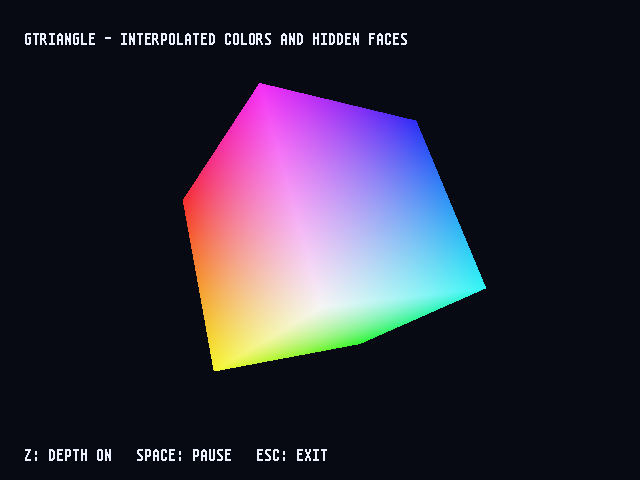
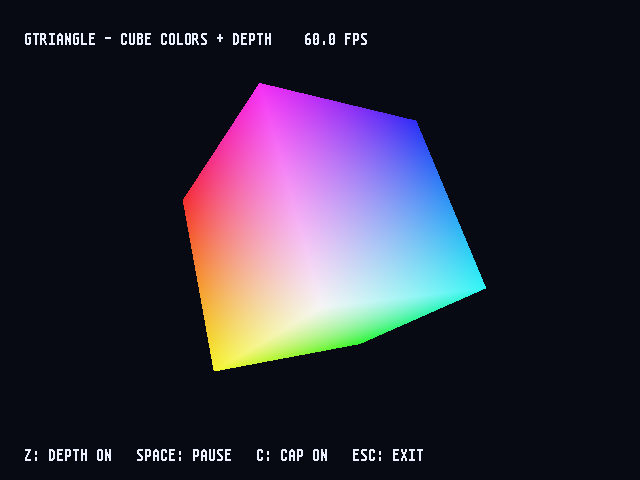
Refresh graphics showcase, benchmark controls and package contents

Changed region(s): [[0.2812, 0.0625, 0.6562, 0.0938], [0.4062, 0.9375, 0.6562, 0.9688], [0.1875, 0.0625, 0.25, 0.0938]]

diff --git a/tools/generate_showcase.py b/tools/generate_showcase.py
@@ -104,8 +104,13 @@ CAPTURES = (
     ),
     Capture(
         "g-cube-gouraud.bas",
-        ('545 BSAVE "showcase/g-cube-gouraud.png" : END',),
+        (
+            "543 SHOWFRAME=SHOWFRAME+1",
+            "544 IF SHOWFRAME<80 THEN GOTO 550",
+            '545 BSAVE "showcase/g-cube-gouraud.png" : SCREEN CLOSE : END',
+        ),
         {310: "REM Capture the initial angle"},
+        windowed=True,
     ),
     Capture(
         "g-animation.bas",
@@ -139,13 +144,23 @@ CAPTURES = (
     ),
     Capture(
         "g-cube-light.bas",
-        ('665 BSAVE "showcase/g-cube-light.png" : END',),
+        (
+            "663 SHOWFRAME=SHOWFRAME+1",
+            "664 IF SHOWFRAME<80 THEN GOTO 670",
+            '665 BSAVE "showcase/g-cube-light.png" : SCREEN CLOSE : END',
+        ),
         {230: "REM Fixed light for capture", 310: "REM Capture the initial angle"},
+        windowed=True,
     ),
     Capture(
         "g-knot-light.bas",
-        ('745 BSAVE "showcase/g-knot-light.png" : END',),
+        (
+            "743 SHOWFRAME=SHOWFRAME+1",
+            "744 IF SHOWFRAME<80 THEN GOTO 750",
+            '745 BSAVE "showcase/g-knot-light.png" : SCREEN CLOSE : END',
+        ),
         {370: "REM Fixed light for capture", 430: "REM Capture the initial angle"},
+        windowed=True,
     ),
     Capture(
         "g-shadow.bas",

diff --git a/tools/render_showcase_docs.py b/tools/render_showcase_docs.py
@@ -201,7 +201,7 @@ def render_markdown(samples: list[Sample]) -> str:
             "- **Cast shadows from a movable light:** `g-cube-light.bas` → `g-shadow.bas`.",
             "- **Optimize a shadow demo with shared calculations and adaptive detail:** `g-shadow.bas` → `g-shadow-adaptive.bas`.",
             "- **Animate the camera, then move the light:** `g-animation.bas` → `g-animation2.bas`.",
-            "- **Simulate cloth offline, then play its PNG frames:** `g-cloth-render.bas` → `g-animation3.bas` ([rendering guide](g-cloth-render.md)).",
+            "- **Simulate cloth offline, then play its PNG frames:** `g-cloth-render.bas` → `g-animation3.bas`.",
             "- **Build a texture mapper, then use the native primitive:** `g-zoomer.bas` →",
             "  `g-zoomer-tquad.bas`.",
             "- **From flat to interpolated light:** `g-lambert.bas` → `g-gouraud.bas`.",

diff --git a/packaging/package_windows_release.py b/packaging/package_windows_release.py
@@ -34,10 +34,19 @@ def run(command: list[str], cwd: Path) -> None:
 
 
 def copy_tree(src: Path, dst: Path) -> None:
-    ignore = shutil.ignore_patterns(
+    ignore_patterns = shutil.ignore_patterns(
         "__pycache__", "*.pyc", ".pytest_cache",
+        "catalog.tsv",
         "f-scores.csv", "f-records.csv", "f-text.txt",
     )
+
+    def ignore(directory: str, names: list[str]) -> set[str]:
+        excluded = set(ignore_patterns(directory, names))
+        # Generation provenance is useful in source control, not for playback.
+        if Path(directory).resolve() == (ROOT / "samples/assets/cloth").resolve():
+            excluded.add("manifest.json")
+        return excluded
+
     shutil.copytree(src, dst, ignore=ignore)
 
 

diff --git a/samples/README.md b/samples/README.md
@@ -168,30 +168,30 @@ to inspect its BASIC source.
 </tr>
 <tr>
 <td width="50%" valign="top">
-  <a id="highlight-g-loan"></a>
-  <a href="g-loan.bas"><img src="showcase/g-loan.png" alt="Graphical Loan Calculator running in AVL BASIC" width="100%"></a><br>
-  <strong>18. Graphical Loan Calculator</strong><br>
-  Graphical loan calculator with optional amortization table.<br>
-  <sub><strong>Shows:</strong> GINPUT · DEF FN · formatted output</sub><br>
-  <code>RUN "/samples/g-loan.bas"</code>
+  <a id="highlight-g-knot-light"></a>
+  <a href="g-knot-light.bas"><img src="showcase/g-knot-light.png" alt="Procedural Knot Light running in AVL BASIC" width="100%"></a><br>
+  <strong>18. Procedural Knot Light</strong><br>
+  A nearby mouse-controlled diffuse light shades a smooth tubular knot; SPACE pauses rotation while the light remains active, and C toggles the 60 FPS cap, with measured FPS in the HUD.<br>
+  <sub><strong>Shows:</strong> parametric mesh · smooth normals · MOUSE · GTRIANGLE · depth buffer</sub><br>
+  <code>RUN "/samples/g-knot-light.bas"</code>
 </td>
 <td width="50%" valign="top">
-  <a id="highlight-g-tunnel-tquad"></a>
-  <a href="g-tunnel-tquad.bas"><img src="showcase/g-tunnel-tquad.png" alt="Textured Tunnel running in AVL BASIC" width="100%"></a><br>
-  <strong>19. Textured Tunnel</strong><br>
-  A seamless textured tunnel turns a ring mesh into a fluid animated ride.<br>
-  <sub><strong>Shows:</strong> TQUAD · mesh generation · texture animation</sub><br>
-  <code>RUN "/samples/g-tunnel-tquad.bas"</code>
+  <a id="highlight-g-shadow-adaptive"></a>
+  <a href="g-shadow-adaptive.bas"><img src="showcase/g-shadow-adaptive.png" alt="Adaptive Arch Shadows running in AVL BASIC" width="100%"></a><br>
+  <strong>19. Adaptive Arch Shadows</strong><br>
+  An advanced version of the same scene shares calculations along grid rows and columns, skips unreachable shadow queries, and keeps fine floor cells where shadow detail is needed.<br>
+  <sub><strong>Shows:</strong> GTRIANGLE · cast shadows · shared calculations · conservative bounds · adaptive floor mesh</sub><br>
+  <code>RUN "/samples/g-shadow-adaptive.bas"</code>
 </td>
 </tr>
 <tr>
 <td width="50%" valign="top">
-  <a id="highlight-pimachin-modern"></a>
-  <a href="pimachin-modern.bas"><img src="showcase/pimachin-modern.png" alt="Modern Machin Pi running in AVL BASIC" width="100%"></a><br>
-  <strong>20. Modern Machin Pi</strong><br>
-  Compute 1,000 digits of π with block arithmetic and structured, modern BASIC.<br>
-  <sub><strong>Shows:</strong> DEF SUB · LOCAL · arbitrary precision</sub><br>
-  <code>RUN "/samples/pimachin-modern.bas"</code>
+  <a id="highlight-g-animation3"></a>
+  <a href="g-animation3.bas"><img src="showcase/g-animation3.png" alt="Offline Cloth Animation running in AVL BASIC" width="100%"></a><br>
+  <strong>20. Offline Cloth Animation</strong><br>
+  Play 120 precalculated cloth frames at 30 FPS; SPACE pauses, R replays, and C toggles the cap while the playback clock preserves motion speed.<br>
+  <sub><strong>Shows:</strong> BLOAD · SCREEN · playback clock · FRAME</sub><br>
+  <code>RUN "/samples/g-animation3.bas"</code>
 </td>
 <td width="50%"></td>
 </tr>
@@ -214,7 +214,7 @@ python tools/generate_showcase.py
 - **Cast shadows from a movable light:** `g-cube-light.bas` → `g-shadow.bas`.
 - **Optimize a shadow demo with shared calculations and adaptive detail:** `g-shadow.bas` → `g-shadow-adaptive.bas`.
 - **Animate the camera, then move the light:** `g-animation.bas` → `g-animation2.bas`.
-- **Simulate cloth offline, then play its PNG frames:** `g-cloth-render.bas` → `g-animation3.bas` ([rendering guide](g-cloth-render.md)).
+- **Simulate cloth offline, then play its PNG frames:** `g-cloth-render.bas` → `g-animation3.bas`.
 - **Build a texture mapper, then use the native primitive:** `g-zoomer.bas` →
   `g-zoomer-tquad.bas`.
 - **From flat to interpolated light:** `g-lambert.bas` → `g-gouraud.bas`.
@@ -250,7 +250,7 @@ demo.
 | <a id="sample-g-smoke"></a>[`g-smoke.bas`](g-smoke.bas) [★](#highlight-g-smoke) | Interactive two-dimensional fluid simulation with pressure projection, vorticity and smoothly shaded dye. | fluid simulation, MAT, bilinear interpolation, FRAME |
 | <a id="sample-g-starfield"></a>[`g-starfield.bas`](g-starfield.bas) | Two thousand depth-recycled stars flow through 3D. | 3D projection, depth recycling, FRAME |
 | <a id="sample-g-sunflower"></a>[`g-sunflower.bas`](g-sunflower.bas) | Animated phyllotaxis spiral with hue cycling. | phyllotaxis, custom RGB, FRAME |
-| <a id="sample-g-tunnel-tquad"></a>[`g-tunnel-tquad.bas`](g-tunnel-tquad.bas) [★](#highlight-g-tunnel-tquad) | A seamless textured tunnel turns a ring mesh into a fluid animated ride. | TQUAD, mesh generation, texture animation |
+| <a id="sample-g-tunnel-tquad"></a>[`g-tunnel-tquad.bas`](g-tunnel-tquad.bas) | A seamless textured tunnel turns a ring mesh into a fluid animated ride. | TQUAD, mesh generation, texture animation |
 | <a id="sample-g-tunnel"></a>[`g-tunnel.bas`](g-tunnel.bas) | BASIC texture lookup creates a block-rendered tunnel. | BLOAD, TEST, texture mapping |
 | <a id="sample-g-zoomer-tquad"></a>[`g-zoomer-tquad.bas`](g-zoomer-tquad.bas) | One textured quad produces rotating zoom feedback. | TQUAD, rotation, zoom |
 | <a id="sample-g-zoomer"></a>[`g-zoomer.bas`](g-zoomer.bas) [★](#highlight-g-zoomer) | Block-sampled texture mapping powers a retro zoomer. | BLOAD, TEST, block rendering |
@@ -263,7 +263,7 @@ demo.
 | <a id="sample-g-chess960"></a>[`g-chess960.bas`](g-chess960.bas) [★](#highlight-g-chess960) | Generate legal Chess960 back ranks, rendered with real pieces and one-key rerolls. | DEF SUB, constrained randomization, sprites |
 | <a id="sample-g-dungeon"></a>[`g-dungeon.bas`](g-dungeon.bas) [★](#highlight-g-dungeon) | Explore a textured first-person maze, find the gold key and escape through the locked gate, with original music and sound effects. | DDA raycasting, TRECTANGLE, TQUAD, depth testing, AUDIO, WAV |
 | <a id="sample-g-dungeon-cpc"></a>[`g-dungeon-cpc.bas`](g-dungeon-cpc.bas) | Play AVL Dungeon with the original melody and bass arranged for three CPC voices, percussion yielding to game effects, and a three-part victory fanfare; no WAV files required. | SOUND, ENV, ENT, DATA, ON SQ, channel rendezvous, DDA raycasting |
-| <a id="sample-g-loan"></a>[`g-loan.bas`](g-loan.bas) [★](#highlight-g-loan) | Graphical loan calculator with optional amortization table. | GINPUT, DEF FN, formatted output |
+| <a id="sample-g-loan"></a>[`g-loan.bas`](g-loan.bas) | Graphical loan calculator with optional amortization table. | GINPUT, DEF FN, formatted output |
 | <a id="sample-g-maze"></a>[`g-maze.bas`](g-maze.bas) [★](#highlight-g-maze) | A fresh maze appears with its solution stitched through it in a dashed path. | DFS/Prim, bit masks, path reconstruction |
 | <a id="sample-g-random"></a>[`g-random.bas`](g-random.bas) | Random walk runs until it reaches the border. | RND, DRAW, boundary detection |
 
@@ -273,13 +273,13 @@ demo.
 |---|---|---|
 | <a id="sample-g-animation"></a>[`g-animation.bas`](g-animation.bas) | A camera rotates around a mathematical surface with fixed lighting; SPACE pauses motion and C toggles the 60 FPS cap. | GTRIANGLE, procedural mesh, camera rotation, vertex lighting, FRAME |
 | <a id="sample-g-animation2"></a>[`g-animation2.bas`](g-animation2.bas) [★](#highlight-g-animation2) | A rotating light shades a mathematical surface while the camera stays fixed; SPACE pauses motion and C toggles the 60 FPS cap. | GTRIANGLE, procedural mesh, moving light, vertex lighting, FRAME |
-| <a id="sample-g-cloth-render"></a>[`g-cloth-render.bas`](g-cloth-render.bas) | Preview satin cloth over a sphere with progressive triangle rendering, optional PNG export, configurable ranges, and reusable physical checkpoints. [Rendering guide](g-cloth-render.md). | XPBD, fixed substeps, GTRIANGLE, filtered shadows, FRAME, BSAVE, checkpoints |
+| <a id="sample-g-cloth-render"></a>[`g-cloth-render.bas`](g-cloth-render.bas) | Preview satin cloth over a sphere with progressive triangle rendering, optional PNG export, configurable ranges, and reusable physical checkpoints. | XPBD, fixed substeps, GTRIANGLE, filtered shadows, FRAME, BSAVE, checkpoints |
 | <a id="sample-g-cube"></a>[`g-cube.bas`](g-cube.bas) | Filled rotating cube with hidden-face removal. | 3D projection, back-face culling, FTRIANGLE |
-| <a id="sample-g-cube-gouraud"></a>[`g-cube-gouraud.bas`](g-cube-gouraud.bas) | One rotating cube combines interpolated corner colors and hidden-face removal; toggle depth with Z. | GTRIANGLE, RGB interpolation, array depth buffer |
-| <a id="sample-g-cube-light"></a>[`g-cube-light.bas`](g-cube-light.bas) | A mouse-controlled diffuse light shades a rotating cube; pause rotation while the light keeps moving. | MOUSE, Lambert lighting, GTRIANGLE, depth buffer |
-| <a id="sample-g-knot-light"></a>[`g-knot-light.bas`](g-knot-light.bas) | A nearby mouse-controlled diffuse light shades a smooth tubular knot; move the light while rotation is paused. | parametric mesh, smooth normals, MOUSE, GTRIANGLE, depth buffer |
+| <a id="sample-g-cube-gouraud"></a>[`g-cube-gouraud.bas`](g-cube-gouraud.bas) | One rotating cube combines interpolated corner colors and hidden-face removal; Z toggles depth, SPACE pauses rotation, and C toggles the 60 FPS cap, with measured FPS in the HUD. | GTRIANGLE, RGB interpolation, array depth buffer |
+| <a id="sample-g-cube-light"></a>[`g-cube-light.bas`](g-cube-light.bas) | A mouse-controlled diffuse light shades a rotating cube; SPACE pauses rotation while the light remains active, and C toggles the 60 FPS cap, with measured FPS in the HUD. | MOUSE, Lambert lighting, GTRIANGLE, depth buffer |
+| <a id="sample-g-knot-light"></a>[`g-knot-light.bas`](g-knot-light.bas) [★](#highlight-g-knot-light) | A nearby mouse-controlled diffuse light shades a smooth tubular knot; SPACE pauses rotation while the light remains active, and C toggles the 60 FPS cap, with measured FPS in the HUD. | parametric mesh, smooth normals, MOUSE, GTRIANGLE, depth buffer |
 | <a id="sample-g-shadow"></a>[`g-shadow.bas`](g-shadow.bas) | An introductory cast-shadow example with a mouse-controlled point light, an arch, and a uniform 96 x 96 floor grid; S toggles shadows and C toggles the 60 FPS cap, with measured FPS in the HUD. | GTRIANGLE, cast shadows, uniform floor mesh, MOUSE, depth buffers, FRAME |
-| <a id="sample-g-shadow-adaptive"></a>[`g-shadow-adaptive.bas`](g-shadow-adaptive.bas) | An advanced version of the same scene shares calculations along grid rows and columns, skips unreachable shadow queries, and keeps fine floor cells where shadow detail is needed. | GTRIANGLE, cast shadows, shared calculations, conservative bounds, adaptive floor mesh |
+| <a id="sample-g-shadow-adaptive"></a>[`g-shadow-adaptive.bas`](g-shadow-adaptive.bas) [★](#highlight-g-shadow-adaptive) | An advanced version of the same scene shares calculations along grid rows and columns, skips unreachable shadow queries, and keeps fine floor cells where shadow detail is needed. | GTRIANGLE, cast shadows, shared calculations, conservative bounds, adaptive floor mesh |
 | <a id="sample-g-cube2"></a>[`g-cube2.bas`](g-cube2.bas) | Two depth-sorted cubes orbit in opposite phases. | 3D projection, depth sorting, FTRIANGLE |
 | <a id="sample-g-cube3"></a>[`g-cube3.bas`](g-cube3.bas) | Rotating cube fills outlined faces using flood fill. | 3D projection, DRAW, FILL |
 | <a id="sample-g-cube-tquad"></a>[`g-cube-tquad.bas`](g-cube-tquad.bas) | A spinning textured cube built from projection math and affine quads. | 3D projection, back-face culling, TQUAD |
@@ -374,7 +374,7 @@ demo.
 
 | Sample | What it demonstrates | Techniques |
 |---|---|---|
-| <a id="sample-g-animation3"></a>[`g-animation3.bas`](g-animation3.bas) | Play 120 precalculated cloth frames at 30 FPS; SPACE pauses, R replays, and C toggles the cap while the playback clock preserves motion speed. | BLOAD, SCREEN, playback clock, FRAME |
+| <a id="sample-g-animation3"></a>[`g-animation3.bas`](g-animation3.bas) [★](#highlight-g-animation3) | Play 120 precalculated cloth frames at 30 FPS; SPACE pauses, R replays, and C toggles the cap while the playback clock preserves motion speed. | BLOAD, SCREEN, playback clock, FRAME |
 | <a id="sample-g-balls"></a>[`g-balls.bas`](g-balls.bas) [★](#highlight-g-balls) | Fifty numbered sprites bounce and collide without full clears. | sprite collisions, dirty redraw, COLMODE |
 | <a id="sample-g-sprite"></a>[`g-sprite.bas`](g-sprite.bas) | Captures and redraws one sprite with transparency variants. | SPRITE$, SPRITE, transparency |
 | <a id="sample-g-sprite2"></a>[`g-sprite2.bas`](g-sprite2.bas) | Repeats sprite transparency inside a scaled viewport. | SPRITE$, ORIGIN, transparency |
@@ -429,7 +429,7 @@ program, then reads it back.
 | <a id="sample-palette"></a>[`palette.bas`](palette.bas) | Lists named colors and their packed RGB values. | RGB, HEX$, DATA |
 | <a id="sample-pimachin"></a>[`pimachin.bas`](pimachin.bas) | GOSUB-based Machin algorithm computes 1,000 pi digits. | arbitrary precision, GOSUB, Machin formula |
 | <a id="sample-pimachin-mat"></a>[`pimachin-mat.bas`](pimachin-mat.bas) | Compute 1,000 pi digits with vector addition and subtraction, retaining BASIC loops for carries and borrows. | MAT, vector arithmetic, arbitrary precision, Machin formula |
-| <a id="sample-pimachin-modern"></a>[`pimachin-modern.bas`](pimachin-modern.bas) [★](#highlight-pimachin-modern) | Compute 1,000 digits of π with block arithmetic and structured, modern BASIC. | DEF SUB, LOCAL, arbitrary precision |
+| <a id="sample-pimachin-modern"></a>[`pimachin-modern.bas`](pimachin-modern.bas) | Compute 1,000 digits of π with block arithmetic and structured, modern BASIC. | DEF SUB, LOCAL, arbitrary precision |
 | <a id="sample-powermul"></a>[`powermul.bas`](powermul.bas) | Computes arbitrary-precision integer powers by block multiplication. | DEF SUB, block multiplication, PRINT USING |
 
 ★ Featured in the 20-example gallery.

diff --git a/README.md b/README.md
@@ -7,8 +7,9 @@
 AVL BASIC is a native Rust implementation of a classic-style BASIC system with
 line-numbered programs, immediate mode, an integrated full-screen editor and
 debugger, structured control flow, matrix operations, sequential data files,
-sprites, mouse and keyboard input, a complete built-in graphics environment,
-CPC-style sound synthesis, and modern audio playback.
+sprites, mouse and keyboard input, a complete built-in graphics environment
+with Gouraud shading and depth testing, CPC-style sound synthesis, and modern
+audio playback.
 
 The project is built around the Rust runtime: a fast native executable for
 daily use, packaged distribution, and source builds.
@@ -72,7 +73,7 @@ not mockups or engine screenshots:
 <td width="33%" valign="top">
   <a href="samples/README.md#highlight-g-animation2"><img src="samples/showcase/g-animation2.png" alt="Mathematical surface shaded by a rotating light in real time" width="100%"></a><br>
   <strong>Real-Time Moving Light</strong><br>
-  A rotating light shades a procedural surface in real time with GTRIANGLE.
+  A rotating light shades a procedural surface in real time.
 </td>
 <td width="33%" valign="top">
   <a href="samples/README.md#highlight-g-fmandelbrot"><img src="samples/showcase/g-fmandelbrot.png" alt="Mandelbrot fractal" width="100%"></a><br>
@@ -87,9 +88,9 @@ not mockups or engine screenshots:
 </tr>
 <tr>
 <td width="33%" valign="top">
-  <a href="samples/README.md#highlight-g-chess960"><img src="samples/showcase/g-chess960.png" alt="Chess960 starting position" width="100%"></a><br>
-  <strong>Chess960 Generator</strong><br>
-  Legal randomized positions, constraints, and sprite rendering.
+  <a href="samples/README.md#highlight-g-shadow-adaptive"><img src="samples/showcase/g-shadow-adaptive.png" alt="An arch casts a shadow onto an adaptive floor mesh" width="100%"></a><br>
+  <strong>Adaptive Arch Shadows</strong><br>
+  Finer cast shadows with an adaptive floor mesh and fewer shadow queries.
 </td>
 <td width="33%" valign="top">
   <a href="samples/README.md#highlight-g-maze"><img src="samples/showcase/g-maze.png" alt="Generated maze and solution" width="100%"></a><br>
